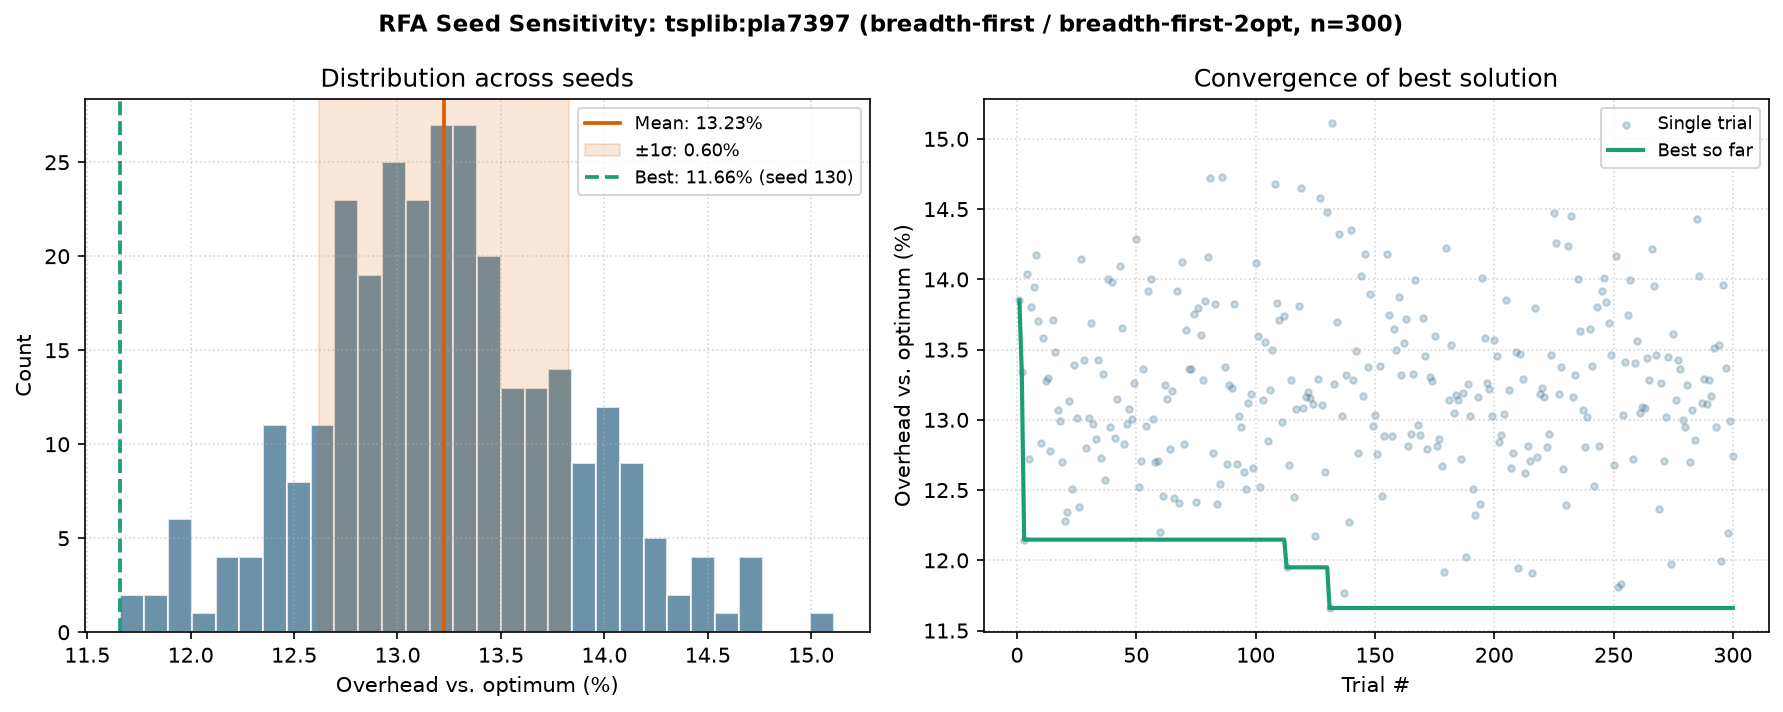
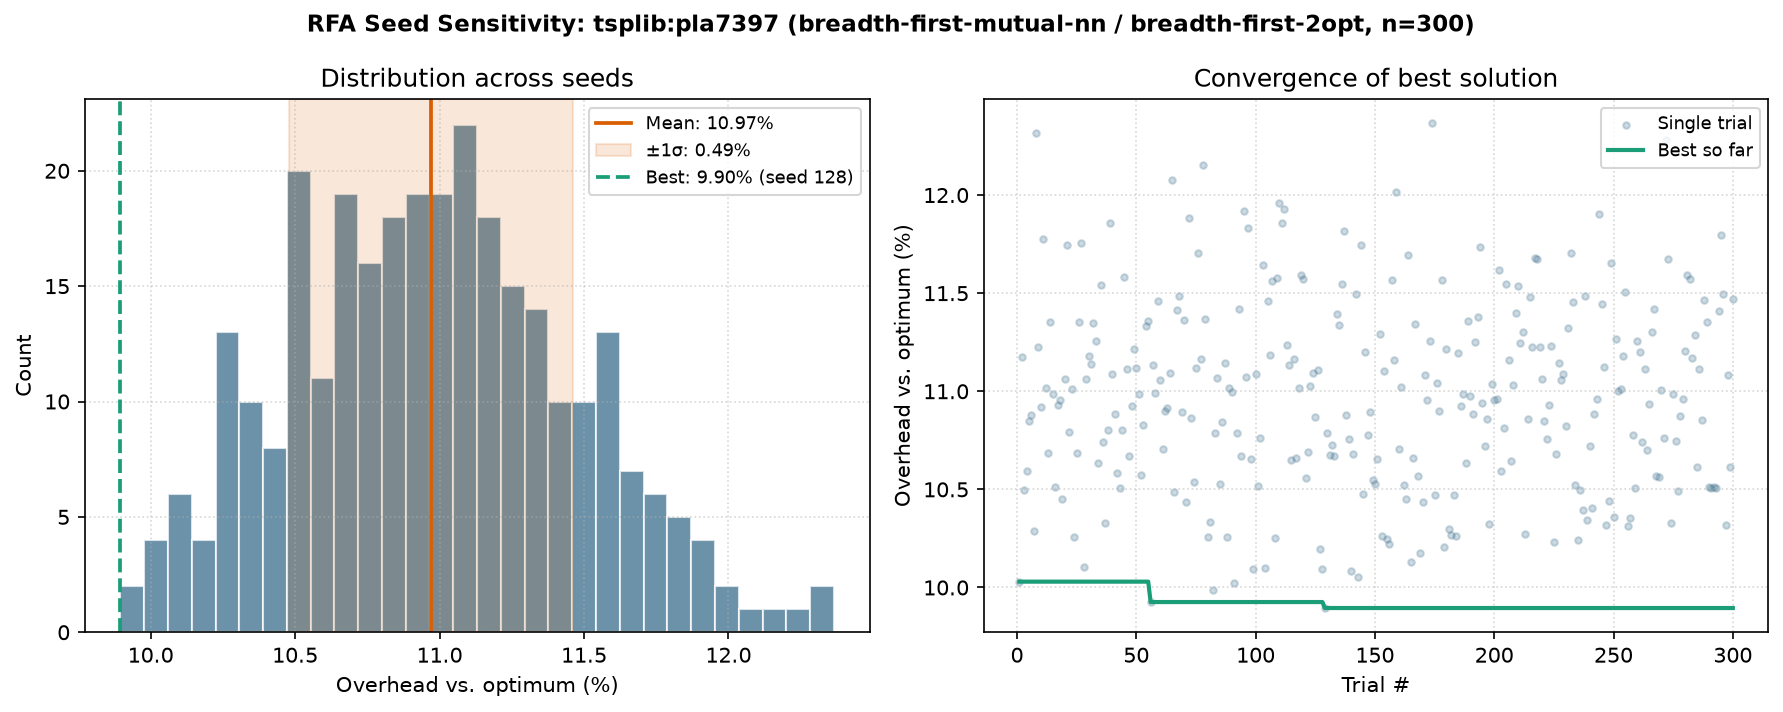
Update Algorithmic properties -> Seed sensitivity

diff --git a/scripts/generate_seed_sensitivity_plots_for_readme.py b/scripts/generate_seed_sensitivity_plots_for_readme.py
@@ -1,0 +1,89 @@
+#!/usr/bin/env python3
+"""Generate seed sensitivity plots for README.md."""
+
+import argparse
+import logging
+import subprocess
+import tempfile
+from pathlib import Path
+
+logger = logging.getLogger(__name__)
+
+INSTANCES: list[tuple[str, int]] = [
+    ("pr76", 5000),
+    ("pla7397", 300),
+    ("usa13509", 200),
+]
+
+
+def _run_command(cmd: list[str]) -> None:
+    """Run a shell command and raise on non-zero exit code."""
+    logger.debug("Executing command: %s", " ".join(cmd))
+    subprocess.run(cmd, check=True)
+
+
+def generate_plots(docs_dir: Path) -> None:
+    """Run multi-trial benchmarks and export seed sensitivity plots."""
+    docs_dir.mkdir(parents=True, exist_ok=True)
+
+    with tempfile.TemporaryDirectory(prefix="rfa-tsp-trials-") as tmp:
+        tmp_dir = Path(tmp)
+        for name, trials in INSTANCES:
+            json_path = tmp_dir / f"trial-{name}.json"
+            png_path = docs_dir / f"rfa-tsp-seed-sensitivity_tsplib-{name}.png"
+
+            logger.info("Running tsplib:%s (%d trials)...", name, trials)
+            _run_command(
+                [
+                    "uv",
+                    "run",
+                    "rfa-tsp",
+                    f"tsplib:{name}",
+                    "--trials",
+                    str(trials),
+                    "--save-trials",
+                    str(json_path),
+                ]
+            )
+
+            logger.info("Exporting plot to %s...", png_path)
+            _run_command(
+                [
+                    "uv",
+                    "run",
+                    "rfa-tsp-plot-trials",
+                    str(json_path),
+                    "--export",
+                    str(png_path),
+                ]
+            )
+
+
+def main() -> None:
+    """Parse CLI arguments and run plot generation."""
+    parser = argparse.ArgumentParser(description="Regenerate seed sensitivity plots for README.md.")
+    parser.add_argument(
+        "--docs-dir",
+        type=Path,
+        default=Path("docs"),
+        help="Output directory for exported PNG plots (default: docs).",
+    )
+    parser.add_argument(
+        "-v",
+        "--verbose",
+        action="store_true",
+        help="Enable debug logging.",
+    )
+    args = parser.parse_args()
+
+    logging.basicConfig(
+        format="%(levelname)-8s | %(message)s",
+        level=logging.DEBUG if args.verbose else logging.INFO,
+    )
+
+    generate_plots(args.docs_dir)
+    logger.info("Done. Plots updated in %s.", args.docs_dir)
+
+
+if __name__ == "__main__":
+    main()

diff --git a/README.md b/README.md
@@ -144,54 +144,46 @@ uv run rfa-tsp random:default -n 4 -s 0 --export docs/rfa-tsp_concept.png
 
 ### Seed sensitivity
 
-The `breadth-first` (default) and `random-nn` folding strategies select nodes to fold randomly. Consequently, the
-quality of the resulting tour depends on the RNG seed.
+The `breadth-first-mutual-nn` (default), `breadth-first`, and `random-nn` folding strategies involve randomized
+tie-breaking or node selection. Consequently, the quality of the resulting tour can depend on the RNG seed.
 
 To quantify how strongly RFA depends on the seed across different problem sizes, we can evaluate multiple consecutive
-seeds (`--trials`) and compare a small instance (`tsplib:pr76`, 76 nodes) with large instances (`tsplib:pla7397`, 7,397
-nodes; `tsplib:usa13509`, 13,509 nodes):
+seeds (`--trials`) and compare a small instance (`tsplib:pr76`) with large instances (`tsplib:pla7397`,
+`tsplib:usa13509`):
 
-| Instance          |  Nodes | Trials | Mean overhead | Std. dev. ($\\sigma$) |   Best overhead    |
-| :---------------- | -----: | -----: | :-----------: | :-------------------: | :----------------: |
-| `tsplib:pr76`     |     76 |  5,000 |    +4.64%     |         2.06%         | +0.14% (seed 1015) |
-| `tsplib:pla7397`  |  7,397 |    300 |    +13.23%    |         0.60%         | +11.66% (seed 130) |
-| `tsplib:usa13509` | 13,509 |    200 |    +10.71%    |         0.31%         | +9.98% (seed 119)  |
+| Instance          |  Nodes | Trials | Mean overhead | Std. dev. ($\\sigma$) | Best overhead     |
+| :---------------- | -----: | -----: | ------------: | --------------------: | :---------------- |
+| `tsplib:pr76`     |     76 |  5,000 |        +3.65% |                 0.52% | +2.74% (seed 0)   |
+| `tsplib:pla7397`  |  7,397 |    300 |       +10.97% |                 0.49% | +9.90% (seed 128) |
+| `tsplib:usa13509` | 13,509 |    200 |        +9.16% |                 0.30% | +8.38% (seed 5)   |
 
-![Seed sensitivity for tsplib:pr76 over 5000 trials](docs/rfa-tsp-seed-sensitivity_tsplib-pr76.png)
+![Seed sensitivity for tsplib:pr76](docs/rfa-tsp-seed-sensitivity_tsplib-pr76.png)
 
 <details>
-<summary>Show plots for large instances (<code>pla7397</code>, <code>usa13509</code>)</summary>
+<summary>Show plots for large instances (pla7397, usa13509)</summary>
 
-![Seed sensitivity for tsplib:pla7397 over 300 trials](docs/rfa-tsp-seed-sensitivity_tsplib-pla7397.png)
+![Seed sensitivity for tsplib:pla7397](docs/rfa-tsp-seed-sensitivity_tsplib-pla7397.png)
 
-![Seed sensitivity for tsplib:usa13509 over 200 trials](docs/rfa-tsp-seed-sensitivity_tsplib-usa13509.png)
+![Seed sensitivity for tsplib:usa13509](docs/rfa-tsp-seed-sensitivity_tsplib-usa13509.png)
 
 </details>
 
 #### Key observations
 
-- **Variance shrinks with problem size:** On small instances (`pr76`), individual folding decisions have a large global
-  impact, producing a wide, right-skewed distribution ($\\sigma = 2.06%$). On large instances (`pla7397`, `usa13509`),
-  thousands of local folding steps average out, tightening the distribution into a narrow, roughly symmetric bell curve
-  ($\\sigma = 0.31%$ on `usa13509`).
-- **Multi-trial trade-off:** On small instances, a multi-trial sweep (`--trials 100`) can push the solution close to the
-  optimum (`+0.14%` on `pr76`). On large instances, diminishing returns set in quickly (~0.7–1.6 percentage points gain
-  over the mean), because the distribution is already tightly concentrated.
-- **Single-run reliability at scale:** Conversely, the low variance on large instances means that even a single RFA run
-  yields a highly predictable result without severe bad-luck outliers.
+- **Near-determinism on small instances:** Because mutual nearest-neighbor pairs are geometrically well-defined,
+  `breadth-first-mutual-nn` eliminates most of the randomness on small instances. Across 5,000 seeds on `pr76`, RFA
+  collapses into just two discrete solutions (+2.74% and +3.95%), with the better one already found on seed 0.
+- **Tight, symmetric distributions at scale:** On large instances (`pla7397`, `usa13509`), many local fallback and
+  tie-breaking steps accumulate into a narrow, roughly symmetric bell curve ($\\sigma = 0.30%$ on `usa13509`).
+- **High single-run reliability:** Because the variance is very low across all problem sizes, even a single RFA run
+  produces a highly predictable result without severe bad-luck outliers. Multi-trial sweeps (`--trials`) offer only
+  modest gains (~0.8–1.1 percentage points over the mean on large instances) and show rapid diminishing returns.
 
 <details>
 <summary>Show commands used to generate the above plots</summary>
 
-```bash
-uv run rfa-tsp tsplib:pr76 --trials 5000 --save-trials trial-pr76.json
-uv run rfa-tsp-plot-trials trial-pr76.json --export docs/rfa-tsp-seed-sensitivity_tsplib-pr76.png
-
-uv run rfa-tsp tsplib:pla7397 --trials 300 --save-trials trial-pla7397.json
-uv run rfa-tsp-plot-trials trial-pla7397.json --export docs/rfa-tsp-seed-sensitivity_tsplib-pla7397.png
-
-uv run rfa-tsp tsplib:usa13509 --trials 200 --save-trials trial-usa13509.json
-uv run rfa-tsp-plot-trials trial-usa13509.json --export docs/rfa-tsp-seed-sensitivity_tsplib-usa13509.png
+```console
+uv run scripts/examine_seed_sensitivity.py
 ```
 
 </details>
